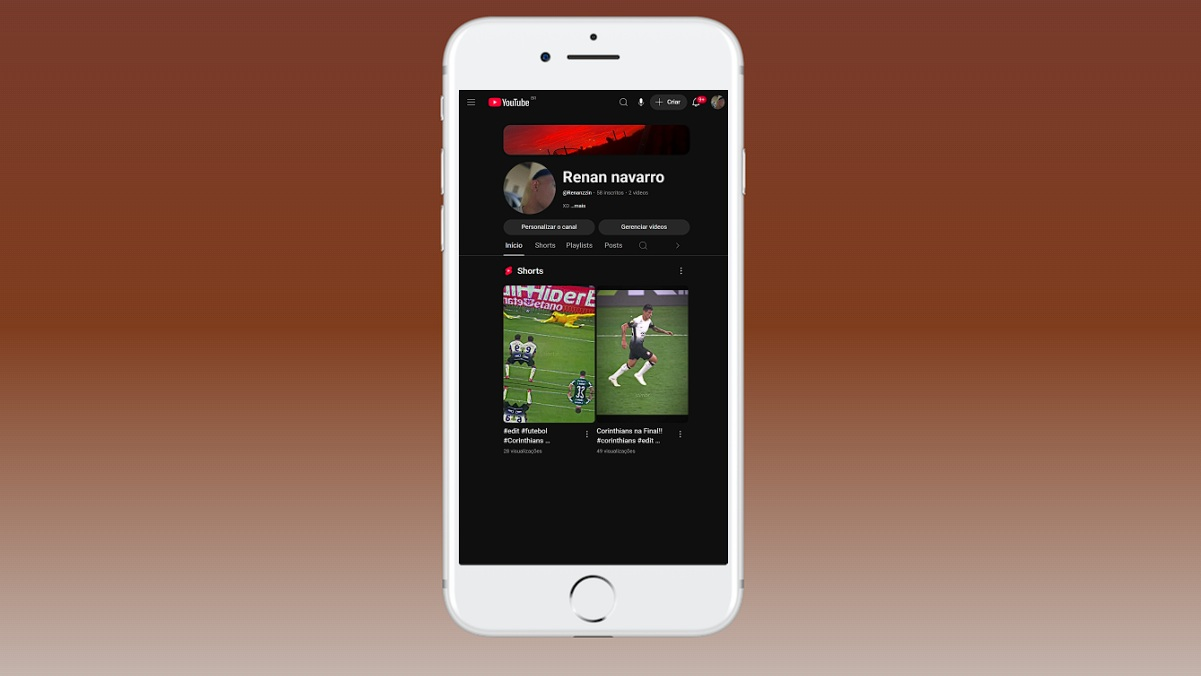
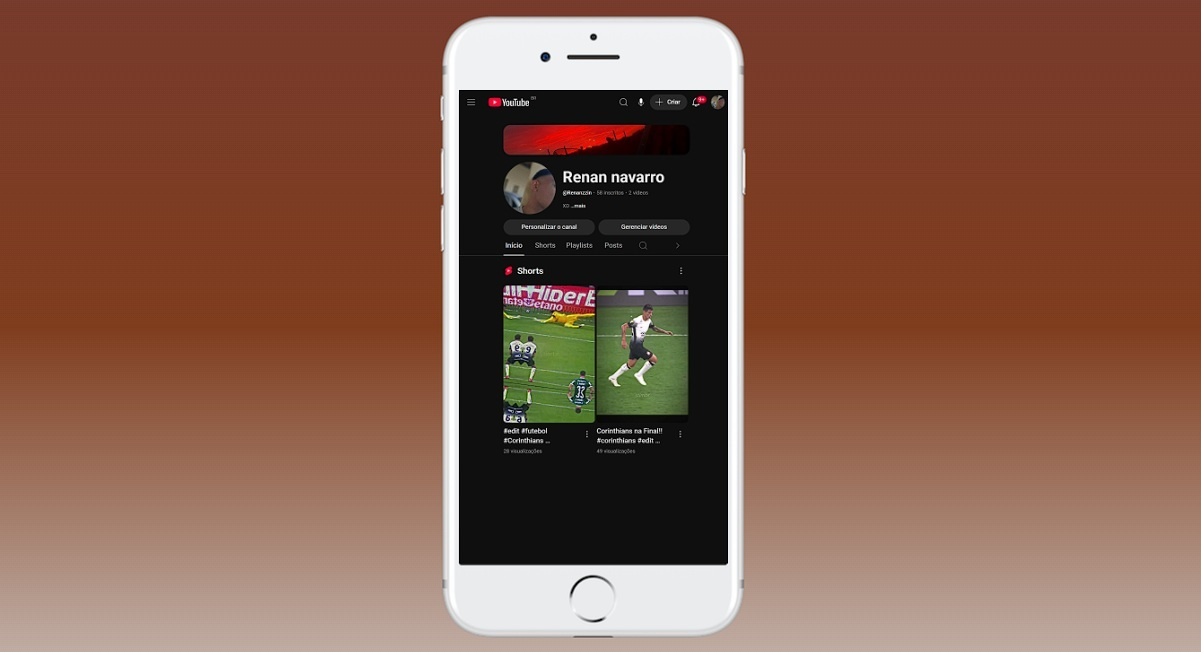
commit .fix projetos

diff --git a/index.html b/index.html
@@ -43,7 +43,10 @@
             <article id="video">
                 <h2><i class="fa-solid fa-handshake"></i> Deixe me apresentar </h2>
                 <div class="video-container">
-                    <iframe src="imagens/Meu Portfolio.mp4" frameborder="0" allowfullscreen allow="accelerometer; autoplay"></iframe>
+                    <video autoplay muted playsinline loop controls>
+                        <source src="imagens/Meu Portfolio.mp4" type="video/mp4">
+                        Seu navegador não suporta a tag de vídeo.
+                    </video>
                 </div>
             </article>
 
@@ -83,11 +86,11 @@
                                 <i class="fa-brands fa-js"></i> JavaSript
                             </span>
                             <span class="porcent">
-                                65%
+                                75%
                             </span> 
                         </div>
                         <div class="barra">
-                            <div class="progresso" style="width: 65%;"></div>
+                            <div class="progresso" style="width: 75%;"></div>
                         </div>
                     </div>
                     <div class="item">
@@ -109,11 +112,11 @@
                                 <i class="fa-brands fa-git-alt"></i> Git
                             </span>
                             <span class="porcent">
-                                65%
+                                75%
                             </span> 
                         </div>
                         <div class="barra">
-                            <div class="progresso" style="width: 65%;"></div>
+                            <div class="progresso" style="width: 75%;"></div>
                         </div>
                     </div>
                     <div class="item">
@@ -214,32 +217,17 @@
 
             <article id="projetos">
                 <h2><i class="fa-solid fa-folder"></i> Meus projetos</h2>
-                <div id="projeto-container">
-                    <div class="projeto">
-                        <img src="imagens/projeto-01-videos.jpg" alt="projeto 1" class="foto"></a>
-                        <div class="projeto-info">
-                            <p class="periodo">2025</p>
-                            <h3 class="titulo">Projeto de Vídeos</h3>
-                            <p>Projeto construído para treinar a inserção de vídeos em nosso site.</p>
-                            <br>
-                            <div class="btn">
-
-                                    <button>
-                                        <a href="https://renannavarro016.github.io/html-css-copy/Desafios/009/" target="_blank">Ver projeto
-                                        </a>
-                                    </button>
-                           </div>
-                        </div>
-                    </div>
-                </div>
 
                 <div id="projeto-container">
                     <div class="projeto">
                         <img src="imagens/projeto-02-cordel.jpg" alt="projeto 2" class="foto"></a>
                         <div class="projeto-info">
-                            <p class="periodo">2025</p>
+                            <p class="periodo">Ano - 2025</p>
                             <h3 class="titulo">Projeto Cordel</h3>
-                            <p>Projeto construído para treinar o efeito paralax em imagens.</p>
+                            <p>Aplicação web desenvolvida com foco na valorização da literatura de cordel, utilizando efeitos visuais e técnicas modernas de estilização para criar uma experiência imersiva de leitura. O projeto demonstra conhecimentos em semântica HTML, responsividade e efeito parallax com CSS. <br><br>
+                            <strong>Tecnologias</strong><br>
+                            HTML5 • CSS3
+                            </p>
                             <br>
                             <div class="btn">
                                 <button>
@@ -254,9 +242,12 @@
                     <div class="projeto">
                         <img src="imagens/projeto-03-android.jpg" alt="projeto 3" class="foto"></a>
                         <div class="projeto-info">
-                            <p class="periodo">2025</p>
+                            <p class="periodo">Ano - 2025</p>
                             <h3 class="titulo">Projeto Tecnologia</h3>
-                            <p>Projeto construído para treinar conteúdos e imagens dinâmicas para um site.</p>
+                            <p>Projeto web voltado à divulgação de conteúdos e informações sobre tecnologia, desenvolvido com foco em organização de conteúdo, responsividade e design moderno. A aplicação oferece uma experiência de navegação intuitiva e adaptável para desktops, tablets e smartphones. <br><br>
+                            <strong>Tecnologias</strong><br>
+                            HTML5 • CSS3 • JavaScript
+                            </p>
                             <br>
                             <div class="btn">
                                 <button>
@@ -271,9 +262,12 @@
                     <div class="projeto">
                         <img src="imagens/projeto-04-links.jpg" alt="projeto 4" class="foto"></a>
                         <div class="projeto-info">
-                            <p class="periodo">2025</p>
+                            <p class="periodo">Ano - 2025</p>
                             <h3 class="titulo">Redes Sociais</h3>
-                            <p>Projeto construído para treinar responsividade e múltiplos media queries e divulgar as suas principais redes sociais.</p>
+                            <p>Projeto desenvolvido para simular a interface de um smartphone com acesso a diferentes redes sociais por meio de navegação interativa. Conta com design moderno, layout responsivo e foco na experiência do usuário, demonstrando conceitos de posicionamento, responsividade e manipulação de elementos visuais. <br><br>
+                            <strong>Tecnologias</strong><br>
+                            HTML5 • CSS3 • JavaScript
+                            </p>
                             <br>
                             <div class="btn">
                                 <button>
@@ -288,9 +282,12 @@
                     <div class="projeto">
                         <img src="imagens/projeto-05-login.png" alt="projeto 5" class="foto"></a>
                         <div class="projeto-info">
-                            <p class="periodo">2025</p>
+                            <p class="periodo">Ano - 2026</p>
                             <h3 class="titulo">Login de Acesso</h3>
-                            <p>Projeto construído para treinar responsividade e formulários em uma das telas mais populares em sistemas</p>
+                            <p>Sistema de autenticação desenvolvido para simular o cadastro e login de usuários em uma aplicação web. Conta com interface moderna, design responsivo, integração com banco de dados e foco na experiência do usuário. <br><br>
+                            <strong>Tecnologias</strong><br>
+                            HTML5 • CSS3 • JavaScript • Firebase Authentication • Firebase Realtime Database    
+                            </p>
                             <br>
                             <div class="btn">
                                 <button>
@@ -306,7 +303,7 @@
                     <div class="projeto">
                         <img src="imagens/projeto-06-menu.jpg" alt="projeto 5" class="foto" width="1220" height="250"></a>
                         <div class="projeto-info">
-                            <p class="periodo">2026</p>
+                            <p class="periodo">Ano - 2026</p>
                             <h3 class="titulo">Menu Responsivo</h3>
                             <p>Projeto de menu digital, projetado para exibir produtos de forma organizada e atrativa. Possui layout responsivo, design moderno e recursos interativos que proporcionam uma melhor experiência de navegação ao usuário. 🚀🍔 <br><br>
                             <strong>Tecnologias</strong><br>
@@ -326,7 +323,7 @@
                     <div class="projeto">
                         <img src="imagens/projeto-07-usina.png" alt="projeto 5" class="foto" width="1220" height="250"></a>
                         <div class="projeto-info">
-                            <p class="periodo">2026</p>
+                            <p class="periodo">Ano - 2026</p>
                             <h3 class="titulo">Usina de Cana</h3>
                             <p>Website responsivo sobre uma usina sucroenergética, apresentando informações sobre a produção de açúcar, etanol e energia limpa através do processamento da cana-de-açúcar. 🌱⚡<br><br>
                             <strong>Tecnologias</strong><br>
@@ -346,7 +343,7 @@
                     <div class="projeto">
                         <img src="imagens/projeto-08-relogio.png" alt="projeto 5" class="foto" width="1220" height="250"></a>
                         <div class="projeto-info">
-                            <p class="periodo">2026</p>
+                            <p class="periodo">Ano - 2026</p>
                             <h3 class="titulo">Relógio Dinâmico</h3>
                             <p>Aplicação web que exibe horário em tempo real, temperatura atual e localização dinâmica com alteração visual baseada no período do dia. <br><br>
                             <strong>Tecnologias</strong><br>
@@ -357,6 +354,28 @@
                                 <button>
                                     <a href="https://renannavarro016.github.io/projeto-relogio/" target="_blank">Ver projeto</a>
                                 </button>
+                           </div>
+                        </div>
+                    </div>
+                </div>
+
+                <div id="projeto-container">
+                    <div class="projeto">
+                        <img src="imagens/projeto-01-idade.png" alt="projeto 1" class="foto"></a>
+                        <div class="projeto-info">
+                            <p class="periodo">Ano - 2026</p>
+                            <h3 class="titulo">Projeto Verificação de Idade</h3>
+                            <p>Projeto web desenvolvido para calcular a idade do usuário e apresentar resultados personalizados de forma dinâmica. A aplicação demonstra conceitos fundamentais de JavaScript, como manipulação do DOM, estruturas condicionais, captura de dados de formulários e atualização de elementos em tempo real. <br><br>
+                            <strong>Tecnologias</strong><br>
+                            HTML5 • CSS3 • JavaScript    
+                            </p>
+                            <br>
+                            <div class="btn">
+
+                                    <button>
+                                        <a href="https://renannavarro016.github.io/javascript/Exercicios/aula12/aula%2012ex/ex015.html" target="_blank">Ver projeto
+                                        </a>
+                                    </button>
                            </div>
                         </div>
                     </div>
@@ -376,8 +395,8 @@
             </div>
 
             <div class="projetos">
-                <p>Mais projetos: </p>
-                <a href="https://renannavarro016.github.io/javascript/Exercicios/aula12/aula%2012ex/ex015.html" target="_blank">Projeto Idade</a>
+                <p>Mais projetos: </p> 
+                <a href="https://renannavarro016.github.io/html-css-copy/Desafios/009/" target="_blank">Projeto Vídeos</a>
                 <a href="https://renannavarro016.github.io/html-css-copy/Exerc%C3%ADcios/ex026/mq005/" target="_blank">Projeto media queries</a>
                 <a href="https://renannavarro016.github.io/html-css-copy/Tela%20de%20Login%20-%20HTML/Login" target="_blank">Tela para login</a>
             </div>

diff --git a/estilos/style.css b/estilos/style.css
@@ -224,7 +224,7 @@ article h2 {
   aspect-ratio: 16/9;
 }
 
-.video-container iframe {
+.video-container video {
   display: block;
   margin: auto;
   position: absolute;
